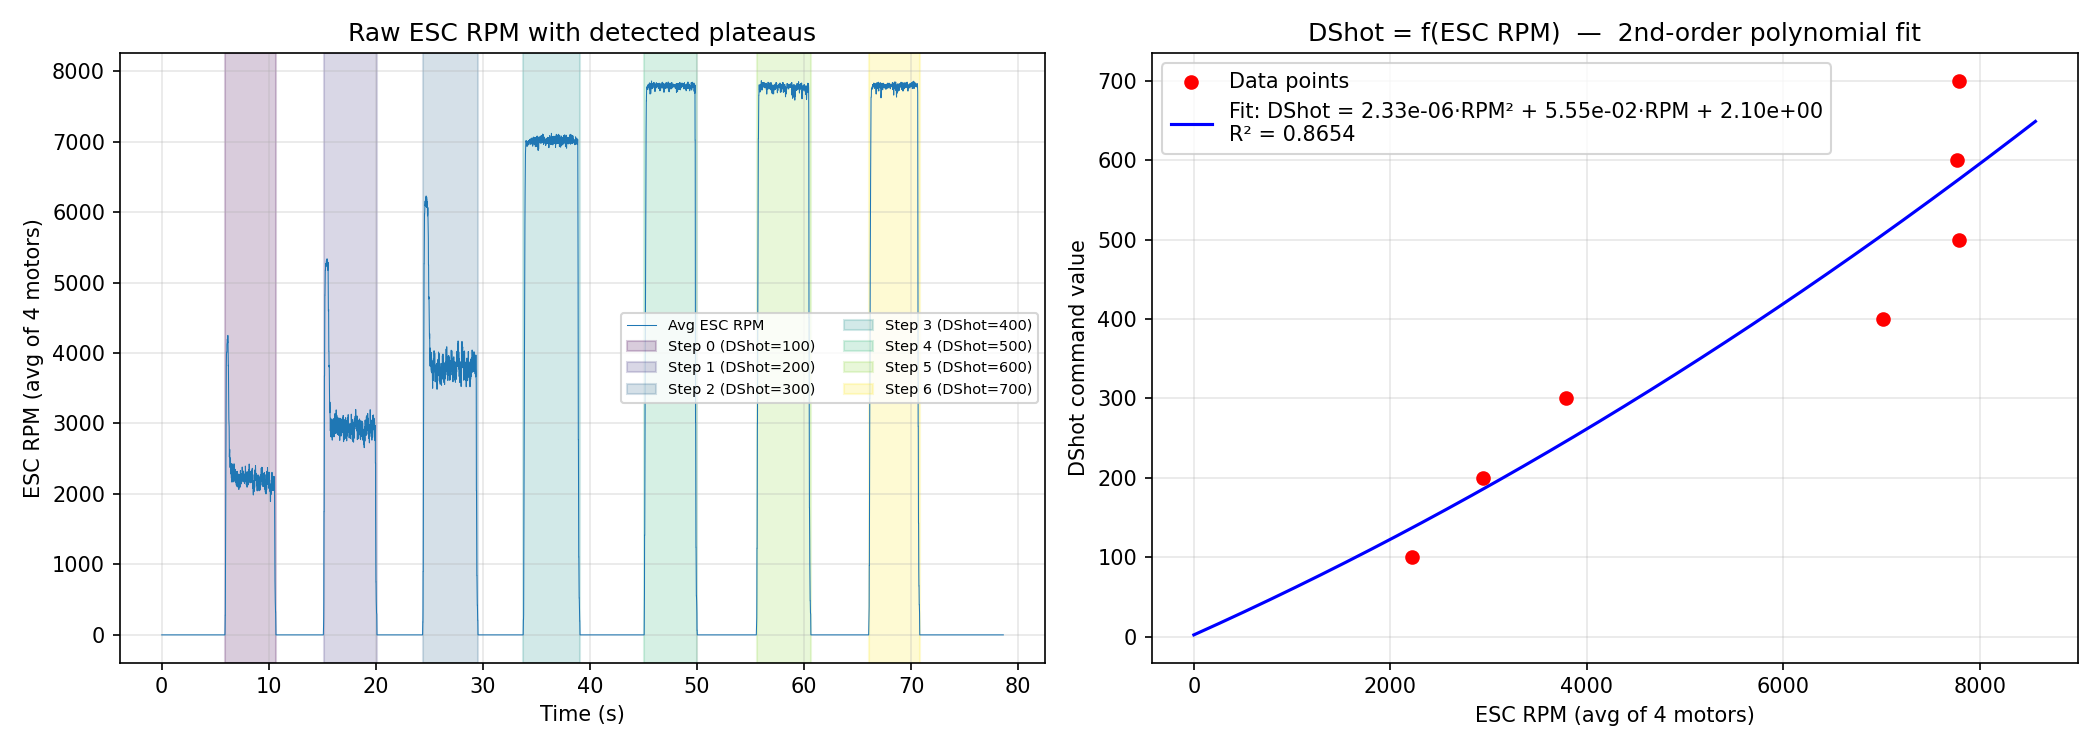
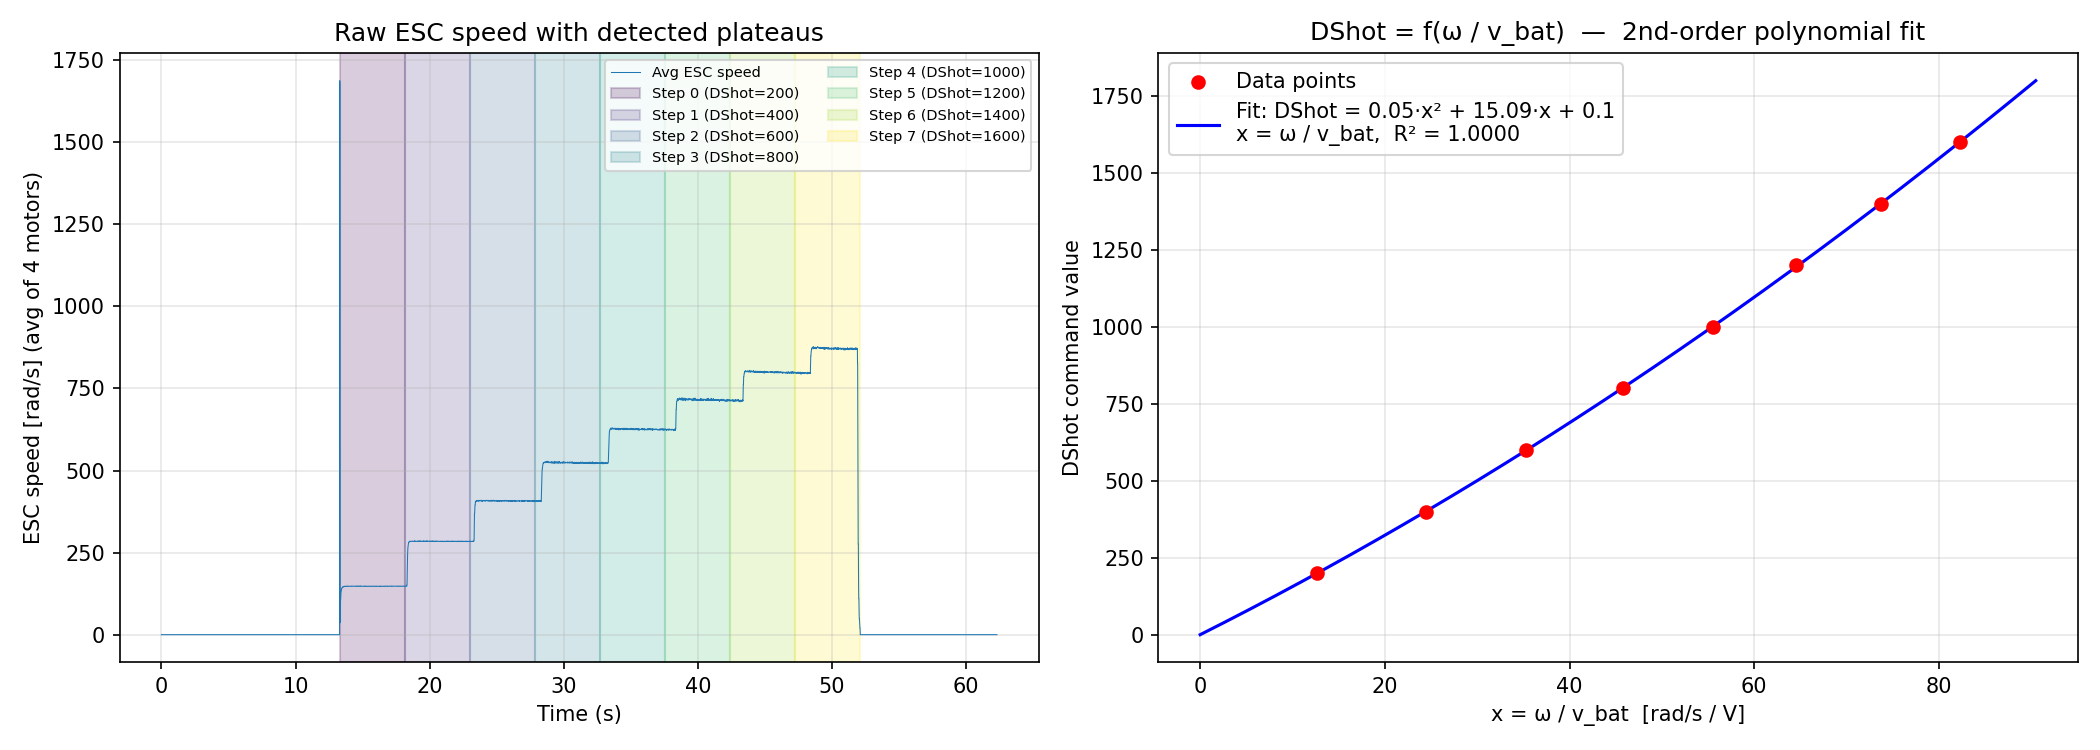
script made and constants created

diff --git a/src/dshot_esc_rpm_map.py b/src/dshot_esc_rpm_map.py
@@ -1,9 +1,16 @@
 #!/usr/bin/env python3
 """
-DShot ↔ ESC RPM Mapping Script
-===============================
-Reads a rosbag with telemetry containing esc_rpm[4], segments the data into
-discrete DShot steps, and fits a 2nd-order polynomial:  DShot = f(ESC_RPM).
+DShot ↔ ESC Speed Mapping Script
+=================================
+Reads a rosbag with telemetry containing esc_rpm[4], converts to rad/s,
+segments the data into discrete DShot steps, and fits a 2nd-order
+polynomial:  DShot = f(ω / v_bat).
+
+The normalized variable  x = ω / v_bat  matches the C++ function:
+    int dshot_value_from_speed(const float speed) {
+        float x = omega / v_bat;
+        return cap_dshot(int(p1 * x * x + p2 * x + p3));
+    }
 
 Usage:
     python3 dshot_esc_rpm_map.py
@@ -19,7 +26,7 @@ import matplotlib.pyplot as plt
 # Path to the rosbag file
 BAG_PATH = os.path.join(
     os.path.dirname(os.path.abspath(__file__)),
-    "..", "ros_bags", "0.5_2.2_1420KV.bag"
+    "..", "ros_bags", "2026-03-02-22-15-25.bag"
 )
 
 # Telemetry topic that contains esc_rpm
@@ -27,39 +34,44 @@ TELEMETRY_TOPIC = "/telemetry117"
 
 # DShot linspace parameters  (start, stop, num_steps)
 # These must correspond 1-to-1 with the discrete steps in the bag, in order.
-DSHOT_START = 100
-DSHOT_END   = 1000
-DSHOT_NUM   = 10
+DSHOT_START = 200
+DSHOT_END   = 1600
+DSHOT_NUM   = 8
+
+# Conversion: ESC reports RPM, we convert to rad/s
+# rad/s = RPM * 2π / 60
+RPM_TO_RADS = 2.0 * np.pi / 60.0
 
 # Segmentation parameters
-# Minimum gap (seconds) of low / transitional RPM between two plateaus.
-# Adjust if your inter-step pause is longer or shorter than 5 s.
-GAP_THRESHOLD_S = 2.0
+# Speed values (rad/s) below this are considered idle (before/after the staircase).
+SPEED_IDLE_THRESHOLD = 200 * RPM_TO_RADS  # ~20.9 rad/s
 
-# RPM values below this are considered "idle / gap" between steps.
-# Set this somewhat above the noise floor of your idle RPM.
-RPM_IDLE_THRESHOLD = 200
+# Smoothing window (number of samples) applied before computing the
+# derivative used to detect step transitions.  Increase if noisy.
+SMOOTH_WINDOW = 10
 
 # When computing the mean RPM for a plateau, discard the first and last
 # TRIM_FRACTION of samples to avoid transients at step edges.
-TRIM_FRACTION = 0.15
+TRIM_FRACTION = 0.30
 # ────────────────────────────────────────────────────────────────────────────
 
 
 def read_esc_rpm(bag_path: str, topic: str):
-    """Read all esc_rpm messages and return (timestamps, rpm_array).
+    """Read all esc_rpm messages and return (timestamps, speed_array, voltage_array).
 
     Returns
     -------
     times : np.ndarray, shape (N,)
         Time in seconds (relative to bag start).
-    rpms  : np.ndarray, shape (N, 4)
-        ESC RPM for each of the 4 motors.
+    rads  : np.ndarray, shape (N, 4)
+        ESC speed in rad/s for each of the 4 motors.
+    volts : np.ndarray, shape (N,)
+        Battery voltage per message.
     """
     import rosbag
 
     bag = rosbag.Bag(bag_path, "r")
-    times, rpms = [], []
+    times, rpms, volts = [], [], []
     t0 = None
     for _, msg, t in bag.read_messages(topics=[topic]):
         ts = t.to_sec()
@@ -67,70 +79,84 @@ def read_esc_rpm(bag_path: str, topic: str):
             t0 = ts
         times.append(ts - t0)
         rpms.append(list(msg.esc_rpm))
+        # Read battery voltage (try both possible field names)
+        v = getattr(msg, 'batteryVoltage', None)
+        if v is None or v == 0:
+            v = getattr(msg, 'voltage', 0.0)
+        volts.append(float(v))
     bag.close()
 
-    return np.array(times), np.array(rpms, dtype=float)
+    times = np.array(times)
+    rpms = np.array(rpms, dtype=float)
+    # Convert RPM → rad/s
+    rads = rpms * RPM_TO_RADS
+    return times, rads, np.array(volts, dtype=float)
 
 
-def segment_plateaus(times, avg_rpm, gap_threshold_s, rpm_idle_threshold):
-    """Identify contiguous plateaus where avg RPM is above idle.
+def segment_plateaus(times, avg_speed, n_steps, speed_idle_threshold, smooth_window):
+    """Segment a monotonically-increasing staircase into N equal time slices.
 
-    Returns a list of (start_idx, end_idx) for each plateau.
+    The approach is simple and robust:
+    1. Crop to the active region (speed > idle threshold).
+    2. Divide that time window into N equal-duration slices.
+    3. Return the index ranges for each slice.
+
+    Returns a list of (start_idx, end_idx) using indices into the
+    *original* (full-length) arrays, in time order (lowest → highest speed).
     """
-    above = avg_rpm > rpm_idle_threshold
+    # ── 1. Active region ────────────────────────────────────────────────
+    active = avg_speed > speed_idle_threshold
+    idxs = np.where(active)[0]
+    if len(idxs) == 0:
+        return []
+    act_start, act_end = idxs[0], idxs[-1]
+
+    # ── 2. Divide into N equal time slices ──────────────────────────────
+    t_start = times[act_start]
+    t_end = times[act_end]
+    slice_edges = np.linspace(t_start, t_end, n_steps + 1)
+
     plateaus = []
-    in_plateau = False
-    start = 0
+    for i in range(n_steps):
+        # Find all indices within this time slice
+        mask = (times >= slice_edges[i]) & (times < slice_edges[i + 1])
+        if i == n_steps - 1:
+            # Include the very last sample in the last slice
+            mask = (times >= slice_edges[i]) & (times <= slice_edges[i + 1])
+        slice_idxs = np.where(mask)[0]
+        if len(slice_idxs) > 0:
+            plateaus.append((slice_idxs[0], slice_idxs[-1]))
 
-    for i in range(len(above)):
-        if above[i] and not in_plateau:
-            in_plateau = True
-            start = i
-        elif not above[i] and in_plateau:
-            in_plateau = False
-            plateaus.append((start, i - 1))
-
-    # Close the last plateau if it extends to the end
-    if in_plateau:
-        plateaus.append((start, len(above) - 1))
-
-    # Merge plateaus that are separated by less than gap_threshold_s
-    # (in case of brief RPM dips within a single step)
-    merged = [plateaus[0]]
-    for s, e in plateaus[1:]:
-        prev_s, prev_e = merged[-1]
-        if times[s] - times[prev_e] < gap_threshold_s:
-            merged[-1] = (prev_s, e)  # merge
-        else:
-            merged.append((s, e))
-
-    return merged
+    return plateaus
 
 
-def trim_plateau_mean(avg_rpm, start, end, trim_fraction):
-    """Return the trimmed-mean RPM for a plateau."""
+def trim_plateau_mean(data, start, end, trim_fraction):
+    """Return the trimmed-mean of data[start:end+1]."""
     n = end - start + 1
     trim = int(n * trim_fraction)
     if trim < 1:
         trim = 0
-    segment = avg_rpm[start + trim : end - trim + 1]
+    segment = data[start + trim : end - trim + 1]
     if len(segment) == 0:
-        segment = avg_rpm[start:end + 1]
+        segment = data[start:end + 1]
     return np.mean(segment)
 
 
 def main():
     # ── 1. Read data ────────────────────────────────────────────────────────
     print(f"Reading bag: {os.path.abspath(BAG_PATH)}")
-    times, rpms = read_esc_rpm(BAG_PATH, TELEMETRY_TOPIC)
+    times, rads, volts = read_esc_rpm(BAG_PATH, TELEMETRY_TOPIC)
     print(f"  Total messages: {len(times)}")
     print(f"  Duration: {times[-1]:.1f} s")
+    print(f"  Voltage range: {volts[volts > 0].min():.2f} – {volts.max():.2f} V")
 
     # Average across 4 motors
-    avg_rpm = rpms.mean(axis=1)
+    avg_speed = rads.mean(axis=1)
 
     # ── 2. Segment into plateaus ────────────────────────────────────────────
-    plateaus = segment_plateaus(times, avg_rpm, GAP_THRESHOLD_S, RPM_IDLE_THRESHOLD)
+    plateaus = segment_plateaus(
+        times, avg_speed, DSHOT_NUM, SPEED_IDLE_THRESHOLD, SMOOTH_WINDOW
+    )
     print(f"  Detected {len(plateaus)} plateaus")
 
     # ── 3. DShot linspace ───────────────────────────────────────────────────
@@ -141,42 +167,55 @@ def main():
         print(
             f"\n⚠  WARNING: detected {len(plateaus)} plateaus but expected "
             f"{DSHOT_NUM} DShot steps.\n"
-            f"  Adjust RPM_IDLE_THRESHOLD ({RPM_IDLE_THRESHOLD}) or "
-            f"GAP_THRESHOLD_S ({GAP_THRESHOLD_S}) until they match.\n"
+            f"  Adjust SPEED_IDLE_THRESHOLD or "
+            f"SMOOTH_WINDOW ({SMOOTH_WINDOW}) until they match.\n"
             f"  Plateau time ranges:"
         )
         for i, (s, e) in enumerate(plateaus):
             print(f"    [{i}] t = {times[s]:.2f} – {times[e]:.2f} s, "
-                  f"mean RPM ≈ {avg_rpm[s:e+1].mean():.0f}")
+                  f"mean ω ≈ {avg_speed[s:e+1].mean():.1f} rad/s")
         print("\nProceeding with the minimum of the two for the fit.\n")
 
     n_fit = min(len(plateaus), len(dshot_values))
 
-    # ── 4. Compute mean RPM per plateau ─────────────────────────────────────
-    rpm_means = np.array([
-        trim_plateau_mean(avg_rpm, s, e, TRIM_FRACTION)
+    # ── 4. Compute mean speed and voltage per plateau, then normalize ───────
+    speed_means = np.array([
+        trim_plateau_mean(avg_speed, s, e, TRIM_FRACTION)
         for s, e in plateaus[:n_fit]
     ])
+    volt_means = np.array([
+        trim_plateau_mean(volts, s, e, TRIM_FRACTION)
+        for s, e in plateaus[:n_fit]
+    ])
+    # x = ω / v_bat  (matches C++ function)
+    x_means = speed_means / volt_means
     dshot_fit = dshot_values[:n_fit]
 
     print("\n  Plateau summary:")
-    print(f"  {'Step':>4}  {'DShot':>8}  {'Mean RPM':>10}  {'t_start':>8}  {'t_end':>8}")
+    print(f"  {'Step':>4}  {'DShot':>8}  {'rad/s':>10}  {'V_bat':>8}  {'x=ω/V':>10}  {'t_start':>8}  {'t_end':>8}")
     for i in range(n_fit):
         s, e = plateaus[i]
-        print(f"  {i:4d}  {dshot_fit[i]:8.1f}  {rpm_means[i]:10.1f}  "
+        print(f"  {i:4d}  {dshot_fit[i]:8.1f}  {speed_means[i]:10.1f}  "
+              f"{volt_means[i]:8.2f}  {x_means[i]:10.4f}  "
               f"{times[s]:8.2f}  {times[e]:8.2f}")
 
-    # ── 5. Fit 2nd-order polynomial: DShot = f(ESC_RPM) ────────────────────
-    # Polynomial: DShot = a * RPM^2 + b * RPM + c
-    coeffs = np.polyfit(rpm_means, dshot_fit, 2)
+    # ── 5. Fit 2nd-order polynomial: DShot = f(x) where x = ω / v_bat ──────
+    # Polynomial: DShot = p1 * x² + p2 * x + p3
+    coeffs = np.polyfit(x_means, dshot_fit, 2)
     poly = np.poly1d(coeffs)
-    a, b, c = coeffs
+    p1, p2, p3 = coeffs
 
-    print(f"\n  2nd-order polynomial fit  DShot = f(RPM):")
-    print(f"    DShot = {a:.6e} * RPM² + {b:.6e} * RPM + {c:.6e}")
+    print(f"\n  2nd-order polynomial fit  DShot = f(ω / v_bat):")
+    print(f"    DShot = {p1:.4f} * x² + {p2:.4f} * x + {p3:.4f}")
+    print(f"    where x = ω / v_bat")
+    print(f"\n  C++ snippet:")
+    print(f"    float p1 = {p1:.4f}f;")
+    print(f"    float p2 = {p2:.4f}f;")
+    print(f"    float x = omega / v_bat;")
+    print(f"    return cap_dshot(int(p1 * x * x + p2 * x + {p3:.1f}f));")
 
     # R² goodness of fit
-    ss_res = np.sum((dshot_fit - poly(rpm_means)) ** 2)
+    ss_res = np.sum((dshot_fit - poly(x_means)) ** 2)
     ss_tot = np.sum((dshot_fit - np.mean(dshot_fit)) ** 2)
     r_squared = 1 - ss_res / ss_tot if ss_tot > 0 else float("nan")
     print(f"    R² = {r_squared:.6f}")
@@ -184,31 +223,31 @@ def main():
     # ── 6. Plot ─────────────────────────────────────────────────────────────
     fig, axes = plt.subplots(1, 2, figsize=(14, 5))
 
-    # Left: raw RPM time series with plateau regions highlighted
+    # Left: raw speed time series with plateau regions highlighted
     ax = axes[0]
-    ax.plot(times, avg_rpm, linewidth=0.5, label="Avg ESC RPM")
+    ax.plot(times, avg_speed, linewidth=0.5, label="Avg ESC speed")
     colors = plt.cm.viridis(np.linspace(0, 1, n_fit))
     for i in range(n_fit):
         s, e = plateaus[i]
         ax.axvspan(times[s], times[e], alpha=0.2, color=colors[i],
                    label=f"Step {i} (DShot={dshot_fit[i]:.0f})")
     ax.set_xlabel("Time (s)")
-    ax.set_ylabel("ESC RPM (avg of 4 motors)")
-    ax.set_title("Raw ESC RPM with detected plateaus")
+    ax.set_ylabel("ESC speed [rad/s] (avg of 4 motors)")
+    ax.set_title("Raw ESC speed with detected plateaus")
     ax.legend(fontsize=7, ncol=2)
     ax.grid(True, alpha=0.3)
 
-    # Right: polynomial fit
+    # Right: polynomial fit on normalized variable x = ω / v_bat
     ax = axes[1]
-    rpm_plot = np.linspace(0, rpm_means.max() * 1.1, 300)
-    ax.scatter(rpm_means, dshot_fit, c="red", zorder=5, label="Data points")
-    ax.plot(rpm_plot, poly(rpm_plot), "b-", label=(
-        f"Fit: DShot = {a:.2e}·RPM² + {b:.2e}·RPM + {c:.2e}\n"
-        f"R² = {r_squared:.4f}"
+    x_plot = np.linspace(0, x_means.max() * 1.1, 300)
+    ax.scatter(x_means, dshot_fit, c="red", zorder=5, label="Data points")
+    ax.plot(x_plot, poly(x_plot), "b-", label=(
+        f"Fit: DShot = {p1:.2f}·x² + {p2:.2f}·x + {p3:.1f}\n"
+        f"x = ω / v_bat,  R² = {r_squared:.4f}"
     ))
-    ax.set_xlabel("ESC RPM (avg of 4 motors)")
+    ax.set_xlabel("x = ω / v_bat  [rad/s / V]")
     ax.set_ylabel("DShot command value")
-    ax.set_title("DShot = f(ESC RPM)  —  2nd-order polynomial fit")
+    ax.set_title("DShot = f(ω / v_bat)  —  2nd-order polynomial fit")
     ax.legend()
     ax.grid(True, alpha=0.3)
 
